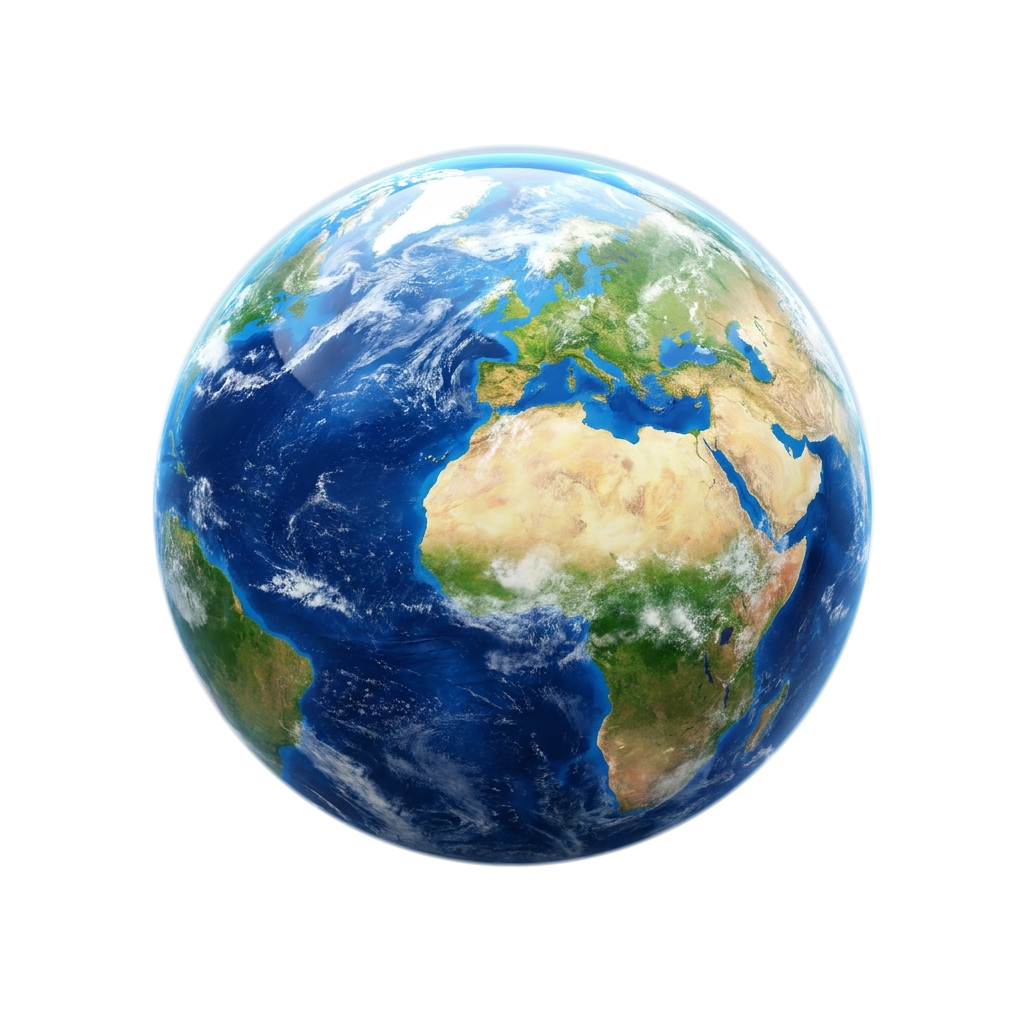
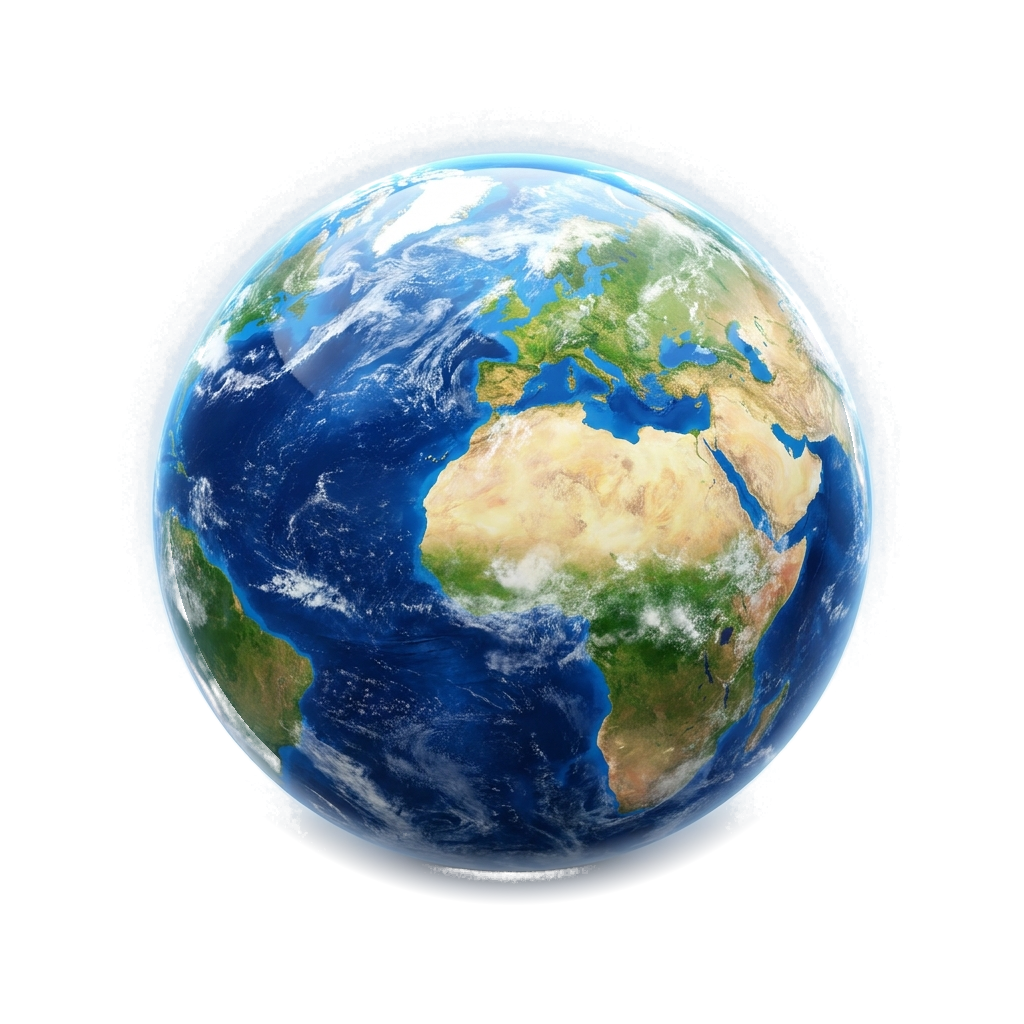
Quita el halo azul de atmósfera que rodeaba el globo y mejora el recorte de la imagen
El aro que quedaba no era CSS, sino el halo de atmósfera (radial-gradient) que dibujaba .globo-wrap::before alrededor de toda la esfera. Se elimina, dejando solo la sombra de contacto abajo. También se mejora el recorte de la imagen combinando distancia y saturación para eliminar el resto de contorno gris que aún quedaba del fondo de estudio original.

diff --git a/index.html b/index.html
@@ -368,9 +368,7 @@ header.pegado{box-shadow:var(--sombra-suave);background:rgba(247,250,242,.82)}
 .globo-wrap{--pinx:45%;--piny:47%;position:relative;z-index:2;width:min(290px,74%);aspect-ratio:1;
   animation:flota-globo 6.5s ease-in-out infinite;will-change:transform}
 @keyframes flota-globo{0%,100%{transform:translateY(-3%)}50%{transform:translateY(3%)}}
-/* Halo de atmósfera y sombra en el "suelo" para dar profundidad */
-.globo-wrap::before{content:"";position:absolute;inset:-8%;border-radius:50%;z-index:0;filter:blur(16px);
-  background:radial-gradient(circle,rgba(120,205,255,.30) 47%,rgba(120,205,255,.12) 58%,transparent 67%)}
+/* Sombra en el "suelo" para dar profundidad, sin halo que rodee la esfera */
 .globo-wrap::after{content:"";position:absolute;left:50%;bottom:-9%;width:60%;height:6%;transform:translateX(-50%);
   border-radius:50%;background:rgba(40,60,90,.22);filter:blur(9px);z-index:0}
 .globo-img{position:relative;z-index:1;width:100%;height:100%;object-fit:contain;